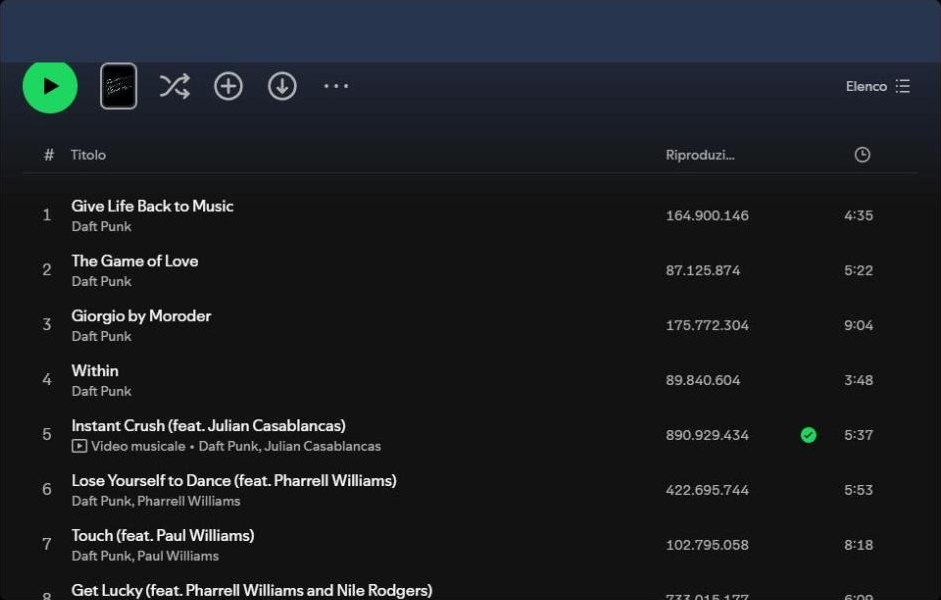
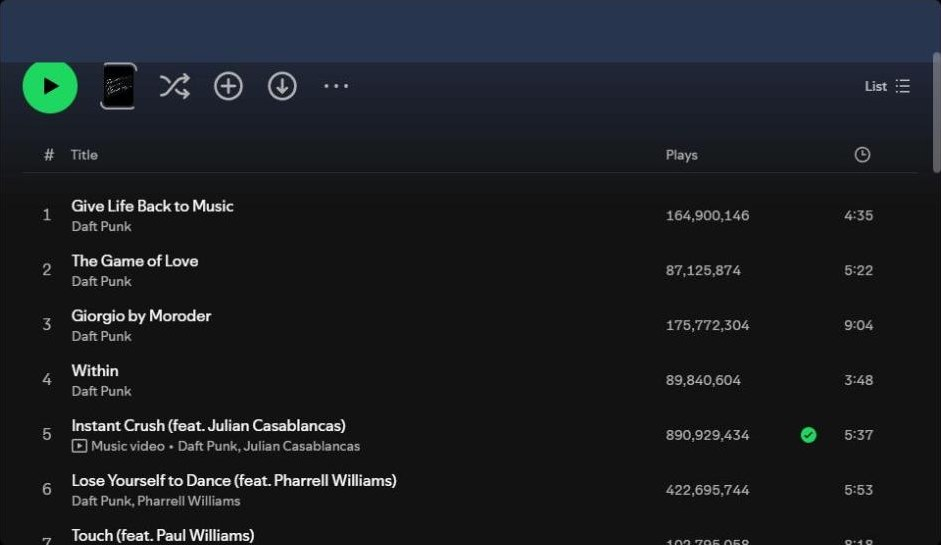
docs: English screenshots

diff --git a/README.md b/README.md
@@ -8,7 +8,7 @@
 
 ## Features
 
-The screenshots come from the Italian web player. I blurred my own songs.
+I blurred my own songs in the screenshots.
 
 ### Play counts on album pages
 
